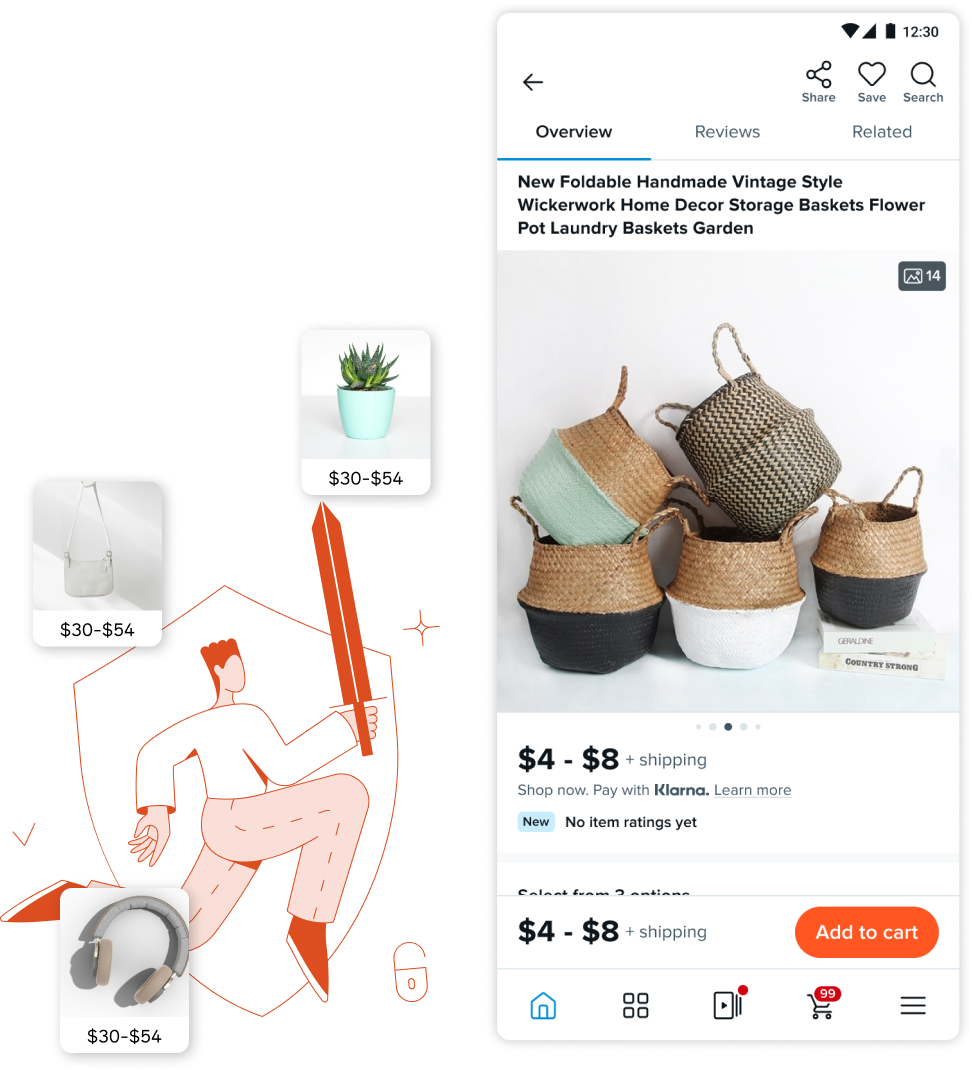
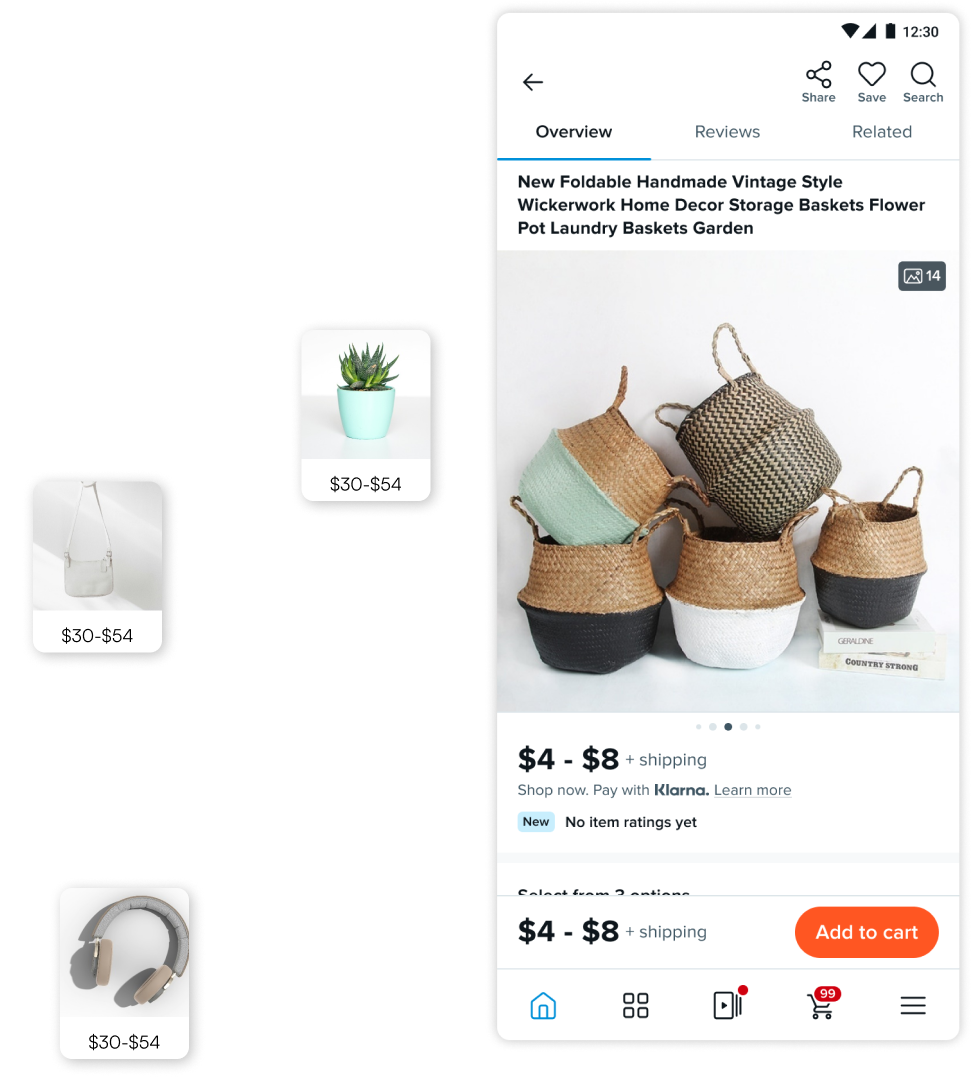
major changes to the google project

diff --git a/google.html b/google.html
@@ -11,7 +11,7 @@
         <!-- style -->
         <link rel="stylesheet" href="https://stackpath.bootstrapcdn.com/bootstrap/4.1.3/css/bootstrap.min.css" integrity="sha384-MCw98/SFnGE8fJT3GXwEOngsV7Zt27NXFoaoApmYm81iuXoPkFOJwJ8ERdknLPMO" crossorigin="anonymous">
         <link rel="stylesheet" type="text/css" href="style.css">
-        <link rel="shortcut icon" type="image/x-icon" href="">
+        <link rel="shortcut icon" type="image/x-icon" href="img/favicon.ico">
         <!-- Global site tag (gtag.js) - Google Analytics -->
 
         
@@ -19,11 +19,92 @@
     </head>
     <body>
         <main>
-            <div class="cursor"></div>
-            <img src="img/google/title_bg.png" class="googleBg">
-            <div class="googleText">
-                <p>Due to NDA, I cannot publicly share the details of this project. If you'd like to learn more, please <a href="mailto:pomelofrost@gmail.com">contact me</a> directly.</p>
-            </div>
+            <header class="google">
+                <img src="img/google/title.png" alt="" class="googleTitle">
+                <h1 class="pdpTitleText">Welcome experience for the iOS Google app</h1>  
+                <section class="pdpTitleContent">
+                    <h4>My Role</h4>
+                    <p>Product designer</p>
+                    <h4>Team</h4>
+                    <p>1 Product Manager</p>
+                    <p>4 Engineers</p>
+                    <p>1 Data scientist</p>
+                    <h4>Time frame</h4>
+                    <p>3 months</p>
+                </section>
+            </header>
+        <div class="content">
+            <section>
+                <div class="textWrap">
+                    <h2>Background</h2>
+                    <p>Unlike Android users, who often encounter Google apps by default, iOS users are less familiar with Google products. At the same time, iOS users tend to be more intent-driven than their Android counterparts, which makes the onboarding journey especially critical.</p>
+                </div>
+                <img src="img/google/Context.png" class="smallImg">
+            </section>
+            <section>
+                <div class="textWrap">
+                    <h2>Problem</h2>
+                </div>
+                <img src=""class="smallImg">
+                <div class="textWrap">
+                    <h5>In the past, the onboarding consisted of a five-step flow, but only 8% of users made it through to the end.</h5>
+                    <p>To reduce friction, we also experimented with removing onboarding altogether. However, this led to a sharp decline in activation: 41.2% of iOS users remained unsigned in, which meant they never received personalized recommendations. As a result, most people limited their usage to basic text queries, while the app’s more powerful features—Google Lens, Discover, or Google Assistant—saw only 8~16% adoption rates.</p>
+                </div>
+                <img src="img/google/problem2.png" class="smallImg">
+                <img src="img/google/problem1.png" class="smallImg">
+            </section>
+            <section>
+                <div class="textWrap">
+                    <h2>Solution</h2>
+                </div>
+                <img src=""class="smallImg">
+                <div class="textWrap">
+                    <h5>Instead of forcing users through a rigid onboarding flow that feels like a barrier, learning opportunities should appear at the right moments—contextual, timely, and tied to the user’s natural journey.</h5>
+                    <p>With the redesign, the true price will be displayed earlier in the shopping journey, eliminating any unexpected surprises for the customers. This approach ensures a more transparent and seamless shopping experience.</p>
+                </div>
+                <img src="" >
+            </section>
+            <section>
+                <div class="textWrap">
+                    <h2>01</h2>
+                </div>
+                <img src="img/google/learn.gif" class="smallImg">
+                <div class="textWrap">
+                    <h5>Learn about the features and capabilities of the app contextually</h5>
+                    <p>Rather than front-loading every instruction, users are introduced to features as they become relevant. For example, when the Google Lens onboarding card is surfaced, users are brought right into the Lens interface to try it out contextually.</p>
+                </div>
+            </section>
+            <section>
+                <div class="textWrap">
+                    <h2>02</h2>
+                </div>
+                <img src="img/google/timing.png">
+                <div class="textWrap">
+                    <h5>Staged learning across the growth funnel</h5>
+                    <p>Learning is intentionally spaced out across the first 30 seconds, 24 hours, and two weeks of use. In the very beginning, users gain a quick win by completing a core task. Within the first day, they are guided toward the Google app - specific features and rewarded for small steps forward. Over time, the experience encourages them to adopt advanced functions, integrate the app into daily routines, and feel like “pros.” This staged approach aligns with natural retention milestones, making growth sustainable.</p>
+                </div>
+            </section>
+            <section>
+                <div class="textWrap">
+                    <h2>03</h2>
+                </div>
+                <img src="img/google/control.gif">
+                <div class="textWrap">
+                    <h5>User-controlled guidance</h5>
+                    <p>The design puts users in charge of how proactive the app is in teaching them. Controls allow them to adjust the level of guidance—from surfacing only essential prompts to showing all available tips—or to dismiss learning moments entirely. By giving users agency, the system avoids being intrusive while still keeping the door open to deeper discovery.</p>
+                </div>
+            </section>
+            <section>
+                <div class="textWrap">
+                    <h2>04</h2>
+                </div>
+                <img src="img/google/hub.gif" class="smallImg">
+                <div class="textWrap">
+                    <h5>A central learning hub</h5>
+                    <p>All learnings are anchored in a dedicated hub, where users can return at any time to review features or explore new ones. The hub is designed not just as a reference point, but as a source of accomplishment—helping users track what they’ve unlocked, reinforcing progress, and motivating continued exploration.</p>
+                </div>
+            </section>
+        </div>
         </main>
         <nav>
             <a href="index.html">Home</a>

diff --git a/pdp.html b/pdp.html
@@ -17,7 +17,7 @@
     </head>
     <body>
         <main>
-            <header>
+            <header class="pdpBg">
                 <img src="img/pdp/title_graphic.png" alt="" class="pdpTitle">
 
                 <h1 class="pdpTitleText">Redesigning the Product Details Page on Wish</h1>  
@@ -48,9 +48,7 @@
                 <img src="img/pdp/Userjourney_before.webp"class="smallImg">
                 <div class="textWrap">
                     <h5>One of the biggest threat to trust is that on average, the price initially shown on the PDP is only 40% of the real price that the customers will end up paying.</h5>
-                </div>
-                <div class="textWrap">
-                <p>While a low upfront price can make the product more appealing and increase the click-through rate from the feed, many customers abandon their carts after seeing the actual price at checkout, leading to a high cart abandonment rate. This practice also undermines trust in our platform, as some users may perceive it as misleading or deceptive.</p>
+                    <p>While a low upfront price can make the product more appealing and increase the click-through rate from the feed, many customers abandon their carts after seeing the actual price at checkout, leading to a high cart abandonment rate. This practice also undermines trust in our platform, as some users may perceive it as misleading or deceptive.</p>
                 </div>
             </section>
             <section>

diff --git a/style.css b/style.css
@@ -558,6 +558,21 @@ header section *{
     margin-top:8px;
 }
 
+.google{
+    background-image: url("img/google/title_bg.png");
+    background-size: cover;   /* Makes sure the image covers the whole header */
+    background-position: center; /* Centers the image */
+    background-repeat: no-repeat; /* Prevents tiling */
+    color: white; /* Ensure text is readable */
+}
+.pdpBg{
+    background-image: url("img/pdp/title_bg.png");
+    background-size: cover;   /* Makes sure the image covers the whole header */
+    background-position: center; /* Centers the image */
+    background-repeat: no-repeat; /* Prevents tiling */
+    color: white; /* Ensure text is readable */
+}
+
 .pdpTitle{
     width:35vw;
     position:absolute;
@@ -566,14 +581,22 @@ header section *{
    right:10vw;
 }
 
+.googleTitle{
+    width:60vw;
+    position:absolute;
+    top: 60%;
+   margin-top: -25vw; /* Half the height */
+   right:-5vw;
+}
+
 .pdpTitleText{
     width:40vw;
     line-height:130%;
-    color:#FF5622;
+    color:#000000;
 }
 
 .pdpTitleContent *{
-    color:#FF5622;
+    color:#000000;
 }
 .gojiberryTitle{
     width:40vw;
@@ -658,7 +681,7 @@ nav * img{
 
 /* content page */
 .content{
-    background-color:#f9f9f9;
+    background-color:#ffffff;
     padding-top: 8vh;
     padding-bottom: 8vh;
 }

diff --git a/gojiberry.html b/gojiberry.html
@@ -5,7 +5,7 @@
         <meta charset="utf-8">
         <meta name="viewport" content="width=device-width, initial-scale=1.0">
         <meta http-equiv="X-UA-Compatible" content="ie=edge">
-        <meta name="keywords" content="WholeStory">
+        <meta name="keywords" content="Gojiberry">
         <meta name="description" content="">
         <!-- style -->
         <link rel="stylesheet" href="https://stackpath.bootstrapcdn.com/bootstrap/4.1.3/css/bootstrap.min.css" integrity="sha384-MCw98/SFnGE8fJT3GXwEOngsV7Zt27NXFoaoApmYm81iuXoPkFOJwJ8ERdknLPMO" crossorigin="anonymous">
@@ -29,7 +29,7 @@
                     <p>5 Engineers</p>
                     <p>1 Marketing manager</p>
                     <h4>Time frame</h4>
-                    <p>2022.09 ~ Now</p>
+                    <p>12 months</p>
                 </section>
             </header>
         <div class="content">
